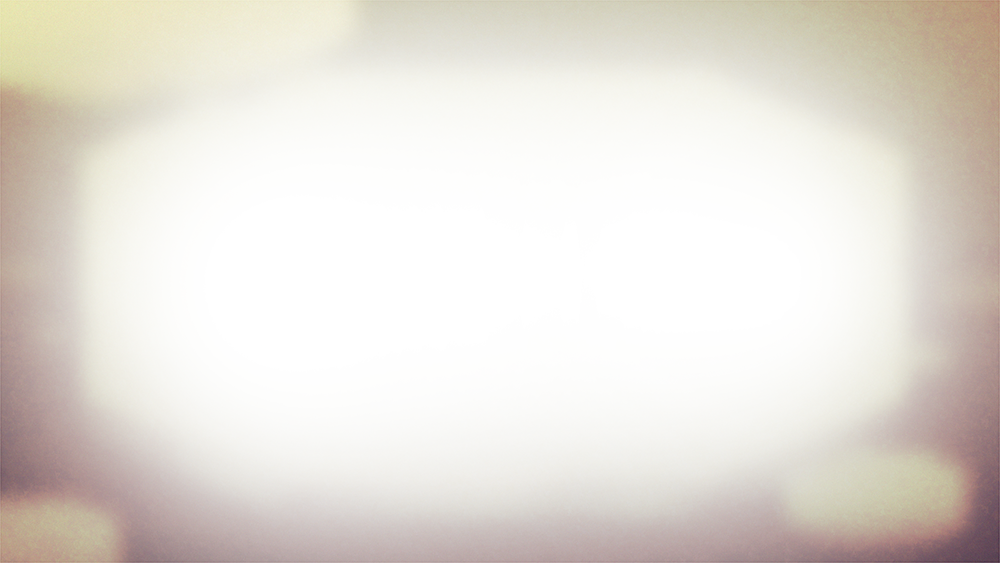
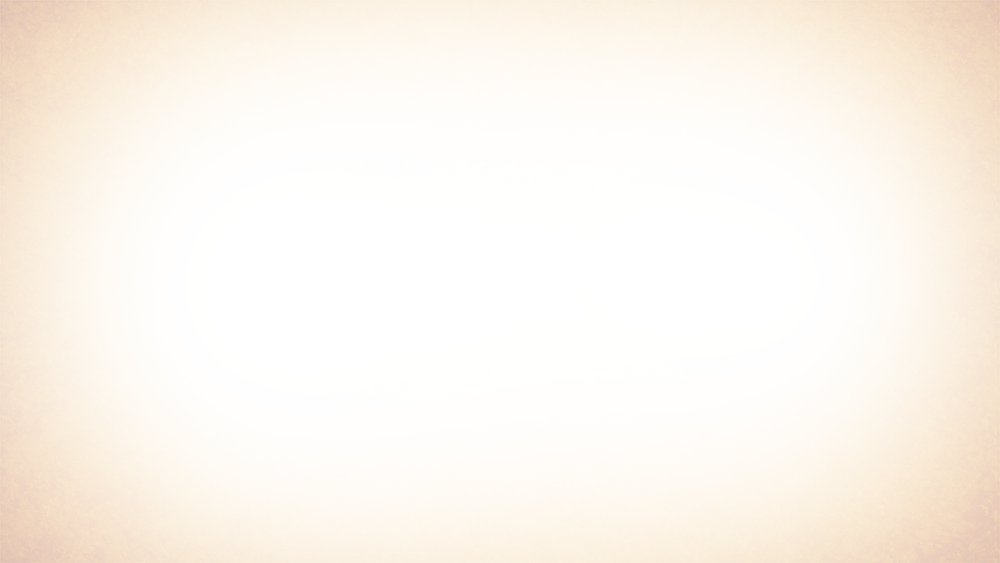
readme & overlay

diff --git a/css/style.css b/css/style.css
@@ -1,1 +1,1 @@
-html,body,div,span,applet,object,iframe,h1,h2,h3,h4,h5,h6,p,blockquote,pre,a,abbr,acronym,address,big,cite,code,del,dfn,em,img,ins,kbd,q,s,samp,small,strike,strong,sub,sup,tt,var,b,u,i,center,dl,dt,dd,ol,ul,li,fieldset,form,label,legend,table,caption,tbody,tfoot,thead,tr,th,td,article,aside,canvas,details,embed,figure,figcaption,footer,header,hgroup,menu,nav,output,ruby,section,summary,time,mark,audio,video{margin:0;padding:0;border:0;font-size:100%;font:inherit;vertical-align:baseline}article,aside,details,figcaption,figure,footer,header,hgroup,menu,nav,section{display:block}body{line-height:1}ol,ul{list-style:none}blockquote,q{quotes:none}blockquote:before,blockquote:after,q:before,q:after{content:'';content:none}table{border-collapse:collapse;border-spacing:0}body,html{font-family:Arial,Helvetica,sans-serif;background:#3c4c5a;cursor:default;width:100%;height:100%}.body-loading{position:absolute;width:200px;text-align:center;color:#FFF;font-size:30px;top:50%;left:50%;margin-top:-15px;margin-left:-100px;-webkit-transition:all .3s ease;-moz-transition:all .3s ease;-o-transition:all .3s ease;-ms-transition:all .3s ease;transition:all .3s ease}.body-loading .bar{display:block;width:100%;position:absolute;height:10px;top:40px;left:0;border:1px solid #FFF}.body-loading .bar>span{display:block;position:absolute;top:0;left:0;height:100%;background:#FFF;width:0;-webkit-transition:width .1s ease;-moz-transition:width .1s ease;-o-transition:width .1s ease;-ms-transition:width .1s ease;transition:width .1s ease}.loaded .body-loading{opacity:0;-webkit-transform:translate3d(0,20px,0);-moz-transform:translate3d(0,20px,0);-ms-transform:translate3d(0,20px,0);-o-transform:translate3d(0,20px,0);transform:translate3d(0,20px,0)}.loaded #wrapper{opacity:1}#wrapper{position:absolute;width:100%;height:100%;top:0;left:0;background-image:url(../img-css/fond.jpg);background-size:cover;background-position:center;overflow:hidden;opacity:0;-webkit-transition:opacity 1s linear;-moz-transition:opacity 1s linear;-o-transition:opacity 1s linear;-ms-transition:opacity 1s linear;transition:opacity 1s linear}.plateforme1{position:absolute;width:360px;height:201px;margin-left:-180px;margin-top:-100px;background:url(../img-css/plateforme1.png)}.plateforme1.num1{top:100%;left:0;-webkit-animation:floating ease-in-out 10s infinite;-moz-animation:floating ease-in-out 10s infinite;-ms-animation:floating ease-in-out 10s infinite;animation:floating ease-in-out 10s infinite}.plateforme1.num2{top:90%;left:90%;-webkit-animation:floating2 ease-in-out 13s infinite;-moz-animation:floating2 ease-in-out 13s infinite;-ms-animation:floating2 ease-in-out 13s infinite;animation:floating2 ease-in-out 13s infinite}.plateforme2{position:absolute;width:193px;height:116px;margin-left:-145px;margin-top:-55px;background:url(../img-css/plateforme2.png)}.plateforme2.num1{top:45%;left:5%;-webkit-animation:floating ease-in-out 8s infinite;-moz-animation:floating ease-in-out 8s infinite;-ms-animation:floating ease-in-out 8s infinite;animation:floating ease-in-out 8s infinite}.plateforme2.num2{top:60%;left:95%;-webkit-animation:floating3 ease-in-out 16s infinite;-moz-animation:floating3 ease-in-out 16s infinite;-ms-animation:floating3 ease-in-out 16s infinite;animation:floating3 ease-in-out 16s infinite}.plateforme3{position:absolute;width:137px;height:84px;margin-left:-70px;margin-top:-42px;background:url(../img-css/plateforme3.png)}.plateforme3.num1{top:55%;left:8%;-webkit-animation:floating ease-in-out 6s infinite;-moz-animation:floating ease-in-out 6s infinite;-ms-animation:floating ease-in-out 6s infinite;animation:floating ease-in-out 6s infinite}.plateforme3.num2{top:80%;left:95%;-webkit-animation:floating2 ease-in-out 11s infinite;-moz-animation:floating2 ease-in-out 11s infinite;-ms-animation:floating2 ease-in-out 11s infinite;animation:floating2 ease-in-out 11s infinite}.plateforme3.num3{top:95%;left:45%;-webkit-animation:floating2 ease-in-out 16s infinite;-moz-animation:floating2 ease-in-out 16s infinite;-ms-animation:floating2 ease-in-out 16s infinite;animation:floating2 ease-in-out 16s infinite}#game{width:1300px;height:776px;position:absolute;overflow:hidden;margin-left:-650px;margin-top:-388px;top:50%;left:50%}.screen{position:absolute;z-index:5;left:0;top:0;width:100%;height:100%;opacity:0;visibility:hidden;-webkit-transform:translate3d(0,-20px,0);-moz-transform:translate3d(0,-20px,0);-ms-transform:translate3d(0,-20px,0);-o-transform:translate3d(0,-20px,0);transform:translate3d(0,-20px,0);-webkit-transition:-webkit-transform .5s ease,opacity .5s ease,visibility 0s linear .5s;-moz-transition:-moz-transform .5s ease,opacity .5s ease,visibility 0s linear .5s;-o-transition:-o-transform .5s ease,opacity .5s ease,visibility 0s linear .5s;-ms-transition:-ms-transform .5s ease,opacity .5s ease,visibility 0s linear .5s;transition:transform .5s ease,opacity .5s ease,visibility 0s linear .5s}.screen.show{z-index:10;opacity:1;visibility:visible;-webkit-transform:translate3d(0,0,0);-moz-transform:translate3d(0,0,0);-ms-transform:translate3d(0,0,0);-o-transform:translate3d(0,0,0);transform:translate3d(0,0,0);-webkit-transition:all 1s ease 1s;-moz-transition:all 1s ease 1s;-o-transition:all 1s ease 1s;-ms-transition:all 1s ease 1s;transition:all 1s ease 1s}.btn{display:block;width:213px;height:95px;margin:0 auto;padding:0;-webkit-box-sizing:border-box;-moz-box-sizing:border-box;box-sizing:border-box;background-size:100%}.btn.play{position:absolute;top:50%;margin-top:-50px;left:50%;margin-left:-106px;background-image:url(../img-css/play_1.png)}.btn.play:hover{background-image:url(../img-css/play_2.png)}.btn.continue{background-image:url(../img-css/continue_1.png)}.btn.continue:hover{background-image:url(../img-css/continue_2.png)}.btn.menu{background-image:url(../img-css/menu_1.png)}.btn.menu:hover{background-image:url(../img-css/menu_2.png)}.logo{width:300px;height:280px;background-size:contain;background-position:center;background-repeat:no-repeat;position:absolute;top:-4px;left:50%;margin-left:-150px;background-image:url(../img-css/logo.png)}.controls-info{position:absolute;top:210px;width:300px;color:#FFF;left:200px}.controls-info.right{right:150px;left:auto}.controls-info .title{font-size:14px;text-transform:uppercase;padding-bottom:5px;clear:both;padding-top:50px}.controls-info .part{float:left;width:180px}.controls-info .part.part-shoot{width:52px}.controls-info .control{width:50px;text-align:center;font-size:12px;background:rgba(255,255,255,.3);padding-bottom:4px;margin-top:5px}.controls-info .control.left,.controls-info .control.bottom,.controls-info .control.right{float:left}.controls-info .control.left,.controls-info .control.bottom{margin-right:5px}.controls-info .control.top{margin-left:55px}.controls-info .control.shoot{margin-top:35px}.controls-info .control span{display:block;line-height:20px;background:#FFF;color:#497b80}.controls-info .libelle{clear:both;text-align:center;font-style:italic;font-size:14px;padding-top:5px}.players-num{position:absolute;top:50%;margin-top:60px;color:#FFF;font-size:16px;left:50%;width:400px;text-align:center;margin-left:-200px}.players-num label{display:inline-block;border:1px solid #FFF;padding:5px 10px;border-right:none}.players-num label:last-child{border-right:1px solid #FFF}.players-num input:checked+label{background:#FFF;color:#497b80}.players-num input{display:none}#game-over h2{color:#FFF;font-size:40px;font-weight:700;padding-top:200px;text-align:center;text-transform:uppercase;padding-bottom:40px}#scores{position:absolute;top:0;left:0}#scores>div{position:absolute;top:0;padding-left:70px;line-height:50px;color:#FFF;text-align:center;font-size:26px;font-weight:700;width:120px;-webkit-box-sizing:border-box;-moz-box-sizing:border-box;box-sizing:border-box;background-repeat:no-repeat;background-size:90px;background-position:-20px -25px;-webkit-transition:-webkit-transform .3s ease,opacity .3s linear,left .5s ease;-moz-transition:-moz-transform .3s ease,opacity .3s linear,left .5s ease;-o-transition:-o-transform .3s ease,opacity .3s linear,left .5s ease;-ms-transition:-ms-transform .3s ease,opacity .3s linear,left .5s ease;transition:transform .3s ease,opacity .3s linear,left .5s ease}#scores>div.hidden{opacity:0;-webkit-transform:translate3d(0,-10px,0);-moz-transform:translate3d(0,-10px,0);-ms-transform:translate3d(0,-10px,0);-o-transform:translate3d(0,-10px,0);transform:translate3d(0,-10px,0)}#scores>div.p1{background-image:url(../img/p1_3.png)}#scores>div.p2{background-image:url(../img/p2_3.png)}#scores>div.p3{background-image:url(../img/p3_3.png)}#scores>div.p4{background-image:url(../img/p4_3.png)}#son-btn{display:block;position:absolute;top:15px;right:20px;width:25px;height:18px;background:url(../img-css/son.png) no-repeat;background-size:25px}#son-btn.muted{background-position:0 -18px}#credits-btn{display:block;position:absolute;bottom:15px;right:20px;font-size:16px;font-weight:700;color:#FFF;text-decoration:none}#credits{position:absolute;bottom:0;right:-350px;width:350px;background:#FFF;-webkit-box-sizing:border-box;-moz-box-sizing:border-box;box-sizing:border-box;padding:30px;font-size:16px;z-index:999;-webkit-transition:right .5s ease;-moz-transition:right .5s ease;-o-transition:right .5s ease;-ms-transition:right .5s ease;transition:right .5s ease}#credits .close{display:block;position:absolute;background:#497b80;color:#FFF;right:0;top:0;padding:7px 10px}#credits.show{right:0}#credits p{margin-bottom:10px}#credits p:last-child{margin-bottom:0}#credits a{color:#497b80;text-decoration:none}.rules{position:absolute;bottom:175px;color:#FFF;font-size:16px;text-align:center;width:100%}@-webkit-keyframes floating{50%{-webkit-transform:translate3d(-30px,0,0)}100%{-webkit-transform:translate3d(0,0,0)}}@-moz-keyframes floating{50%{-moz-transform:translate3d(-30px,0,0)}100%{-moz-transform:translate3d(0,0,0)}}@-ms-keyframes floating{50%{-ms-transform:translate3d(-30px,0,0)}100%{-ms-transform:translate3d(0,0,0)}}@keyframes floating{50%{transform:translate3d(-30px,0,0)}100%{transform:translate3d(0,0,0)}}@-webkit-keyframes floating2{50%{-webkit-transform:translate3d(-60px,0,0)}100%{-webkit-transform:translate3d(0,0,0)}}@-moz-keyframes floating2{50%{-moz-transform:translate3d(-60px,0,0)}100%{-moz-transform:translate3d(0,0,0)}}@-ms-keyframes floating2{50%{-ms-transform:translate3d(-60px,0,0)}100%{-ms-transform:translate3d(0,0,0)}}@keyframes floating2{50%{transform:translate3d(-60px,0,0)}100%{transform:translate3d(0,0,0)}}@-webkit-keyframes floating3{50%{-webkit-transform:translate3d(-90px,0,0)}100%{-webkit-transform:translate3d(0,0,0)}}@-moz-keyframes floating3{50%{-moz-transform:translate3d(-90px,0,0)}100%{-moz-transform:translate3d(0,0,0)}}@-ms-keyframes floating3{50%{-ms-transform:translate3d(-90px,0,0)}100%{-ms-transform:translate3d(0,0,0)}}@keyframes floating3{50%{transform:translate3d(-90px,0,0)}100%{transform:translate3d(0,0,0)}}
+html,body,div,span,applet,object,iframe,h1,h2,h3,h4,h5,h6,p,blockquote,pre,a,abbr,acronym,address,big,cite,code,del,dfn,em,img,ins,kbd,q,s,samp,small,strike,strong,sub,sup,tt,var,b,u,i,center,dl,dt,dd,ol,ul,li,fieldset,form,label,legend,table,caption,tbody,tfoot,thead,tr,th,td,article,aside,canvas,details,embed,figure,figcaption,footer,header,hgroup,menu,nav,output,ruby,section,summary,time,mark,audio,video{margin:0;padding:0;border:0;font-size:100%;font:inherit;vertical-align:baseline}article,aside,details,figcaption,figure,footer,header,hgroup,menu,nav,section{display:block}body{line-height:1}ol,ul{list-style:none}blockquote,q{quotes:none}blockquote:before,blockquote:after,q:before,q:after{content:'';content:none}table{border-collapse:collapse;border-spacing:0}body,html{font-family:Arial,Helvetica,sans-serif;background:#3c4c5a;cursor:default;width:100%;height:100%}.body-loading{position:absolute;width:200px;text-align:center;color:#FFF;font-size:30px;top:50%;left:50%;margin-top:-15px;margin-left:-100px;-webkit-transition:all .3s ease;-moz-transition:all .3s ease;-o-transition:all .3s ease;-ms-transition:all .3s ease;transition:all .3s ease}.body-loading .bar{display:block;width:100%;position:absolute;height:10px;top:40px;left:0;border:1px solid #FFF}.body-loading .bar>span{display:block;position:absolute;top:0;left:0;height:100%;background:#FFF;width:0;-webkit-transition:width .1s ease;-moz-transition:width .1s ease;-o-transition:width .1s ease;-ms-transition:width .1s ease;transition:width .1s ease}.loaded .body-loading{opacity:0;-webkit-transform:translate3d(0,20px,0);-moz-transform:translate3d(0,20px,0);-ms-transform:translate3d(0,20px,0);-o-transform:translate3d(0,20px,0);transform:translate3d(0,20px,0)}.loaded #wrapper{opacity:1}#wrapper{position:absolute;width:100%;height:100%;top:0;left:0;background-image:url(../img-css/fond.jpg);background-size:cover;background-position:center;overflow:hidden;opacity:0;-webkit-transition:opacity 1s linear;-moz-transition:opacity 1s linear;-o-transition:opacity 1s linear;-ms-transition:opacity 1s linear;transition:opacity 1s linear}.plateforme1{position:absolute;width:360px;height:201px;margin-left:-180px;margin-top:-100px;background:url(../img-css/plateforme1.png)}.plateforme1.num1{top:100%;left:0;-webkit-animation:floating ease-in-out 10s infinite;-moz-animation:floating ease-in-out 10s infinite;-ms-animation:floating ease-in-out 10s infinite;animation:floating ease-in-out 10s infinite}.plateforme1.num2{top:90%;left:90%;-webkit-animation:floating2 ease-in-out 13s infinite;-moz-animation:floating2 ease-in-out 13s infinite;-ms-animation:floating2 ease-in-out 13s infinite;animation:floating2 ease-in-out 13s infinite}.plateforme2{position:absolute;width:193px;height:116px;margin-left:-145px;margin-top:-55px;background:url(../img-css/plateforme2.png)}.plateforme2.num1{top:45%;left:5%;-webkit-animation:floating ease-in-out 8s infinite;-moz-animation:floating ease-in-out 8s infinite;-ms-animation:floating ease-in-out 8s infinite;animation:floating ease-in-out 8s infinite}.plateforme2.num2{top:60%;left:95%;-webkit-animation:floating3 ease-in-out 16s infinite;-moz-animation:floating3 ease-in-out 16s infinite;-ms-animation:floating3 ease-in-out 16s infinite;animation:floating3 ease-in-out 16s infinite}.plateforme3{position:absolute;width:137px;height:84px;margin-left:-70px;margin-top:-42px;background:url(../img-css/plateforme3.png)}.plateforme3.num1{top:55%;left:8%;-webkit-animation:floating ease-in-out 6s infinite;-moz-animation:floating ease-in-out 6s infinite;-ms-animation:floating ease-in-out 6s infinite;animation:floating ease-in-out 6s infinite}.plateforme3.num2{top:80%;left:95%;-webkit-animation:floating2 ease-in-out 11s infinite;-moz-animation:floating2 ease-in-out 11s infinite;-ms-animation:floating2 ease-in-out 11s infinite;animation:floating2 ease-in-out 11s infinite}.plateforme3.num3{top:95%;left:45%;-webkit-animation:floating2 ease-in-out 16s infinite;-moz-animation:floating2 ease-in-out 16s infinite;-ms-animation:floating2 ease-in-out 16s infinite;animation:floating2 ease-in-out 16s infinite}#game{width:1300px;height:776px;position:absolute;overflow:hidden;margin-left:-650px;margin-top:-388px;top:50%;left:50%}.screen{position:absolute;z-index:5;left:0;top:0;width:100%;height:100%;opacity:0;visibility:hidden;-webkit-transform:translate3d(0,-20px,0);-moz-transform:translate3d(0,-20px,0);-ms-transform:translate3d(0,-20px,0);-o-transform:translate3d(0,-20px,0);transform:translate3d(0,-20px,0);-webkit-transition:-webkit-transform .5s ease,opacity .5s ease,visibility 0s linear .5s;-moz-transition:-moz-transform .5s ease,opacity .5s ease,visibility 0s linear .5s;-o-transition:-o-transform .5s ease,opacity .5s ease,visibility 0s linear .5s;-ms-transition:-ms-transform .5s ease,opacity .5s ease,visibility 0s linear .5s;transition:transform .5s ease,opacity .5s ease,visibility 0s linear .5s}.screen.show{z-index:10;opacity:1;visibility:visible;-webkit-transform:translate3d(0,0,0);-moz-transform:translate3d(0,0,0);-ms-transform:translate3d(0,0,0);-o-transform:translate3d(0,0,0);transform:translate3d(0,0,0);-webkit-transition:all 1s ease 1s;-moz-transition:all 1s ease 1s;-o-transition:all 1s ease 1s;-ms-transition:all 1s ease 1s;transition:all 1s ease 1s}.btn{display:block;width:213px;height:95px;margin:0 auto;padding:0;-webkit-box-sizing:border-box;-moz-box-sizing:border-box;box-sizing:border-box;background-size:100%}.btn.play{position:absolute;top:50%;margin-top:-50px;left:50%;margin-left:-106px;background-image:url(../img-css/play_1.png)}.btn.play:hover{background-image:url(../img-css/play_2.png)}.btn.continue{background-image:url(../img-css/continue_1.png)}.btn.continue:hover{background-image:url(../img-css/continue_2.png)}.btn.menu{background-image:url(../img-css/menu_1.png)}.btn.menu:hover{background-image:url(../img-css/menu_2.png)}.logo{width:300px;height:280px;background-size:contain;background-position:center;background-repeat:no-repeat;position:absolute;top:-4px;left:50%;margin-left:-150px;background-image:url(../img-css/logo.png)}.controls-info{position:absolute;top:210px;width:300px;color:#FFF;left:200px}.controls-info.right{right:150px;left:auto}.controls-info .title{font-size:14px;text-transform:uppercase;padding-bottom:5px;clear:both;padding-top:50px}.controls-info .part{float:left;width:180px}.controls-info .part.part-shoot{width:52px}.controls-info .control{width:50px;text-align:center;font-size:12px;background:rgba(255,255,255,.3);padding-bottom:4px;margin-top:5px}.controls-info .control.left,.controls-info .control.bottom,.controls-info .control.right{float:left}.controls-info .control.left,.controls-info .control.bottom{margin-right:5px}.controls-info .control.top{margin-left:55px}.controls-info .control.shoot{margin-top:35px}.controls-info .control span{display:block;line-height:20px;background:#FFF;color:#497b80}.controls-info .libelle{clear:both;text-align:center;font-style:italic;font-size:14px;padding-top:5px}.players-num{position:absolute;top:50%;margin-top:60px;color:#FFF;font-size:16px;left:50%;width:400px;text-align:center;margin-left:-200px}.players-num label{display:inline-block;border:1px solid #FFF;padding:5px 10px;border-right:none}.players-num label:last-child{border-right:1px solid #FFF}.players-num input:checked+label{background:#FFF;color:#497b80}.players-num input{display:none}#game-over h2{color:#FFF;font-size:40px;font-weight:700;padding-top:200px;text-align:center;text-transform:uppercase;padding-bottom:40px}#scores{position:absolute;top:0;left:0}#scores>div{position:absolute;top:0;padding-left:70px;line-height:50px;color:#FFF;text-align:center;font-size:26px;font-weight:700;width:120px;-webkit-box-sizing:border-box;-moz-box-sizing:border-box;box-sizing:border-box;background-repeat:no-repeat;background-size:90px;background-position:-20px -25px;-webkit-transition:-webkit-transform .3s ease,opacity .3s linear,left .5s ease;-moz-transition:-moz-transform .3s ease,opacity .3s linear,left .5s ease;-o-transition:-o-transform .3s ease,opacity .3s linear,left .5s ease;-ms-transition:-ms-transform .3s ease,opacity .3s linear,left .5s ease;transition:transform .3s ease,opacity .3s linear,left .5s ease}#scores>div.hidden{opacity:0;-webkit-transform:translate3d(0,-10px,0);-moz-transform:translate3d(0,-10px,0);-ms-transform:translate3d(0,-10px,0);-o-transform:translate3d(0,-10px,0);transform:translate3d(0,-10px,0)}#scores>div.p1{background-image:url(../img/p1_3.png)}#scores>div.p2{background-image:url(../img/p2_3.png)}#scores>div.p3{background-image:url(../img/p3_3.png)}#scores>div.p4{background-image:url(../img/p4_3.png)}#son-btn{display:block;position:absolute;top:15px;right:20px;width:25px;height:18px;background:url(../img-css/son.png) no-repeat;background-size:25px}#son-btn.muted{background-position:0 -18px}#credits-btn{display:block;position:absolute;bottom:15px;right:20px;font-size:16px;font-weight:700;color:#FFF;text-decoration:none}#credits{position:absolute;bottom:0;right:-350px;width:350px;background:#FFF;-webkit-box-sizing:border-box;-moz-box-sizing:border-box;box-sizing:border-box;padding:30px;font-size:16px;z-index:999;-webkit-transition:right .5s ease;-moz-transition:right .5s ease;-o-transition:right .5s ease;-ms-transition:right .5s ease;transition:right .5s ease}#credits .close{display:block;position:absolute;background:#497b80;color:#FFF;right:0;top:0;padding:7px 10px}#credits.show{right:0}#credits p{margin-bottom:10px}#credits p:last-child{margin-bottom:0}#credits a{color:#497b80;text-decoration:none}.rules{position:absolute;bottom:175px;color:#FFF;font-size:16px;text-align:center;width:100%}@-webkit-keyframes floating{50%{-webkit-transform:translate3d(-30px,0,0)}100%{-webkit-transform:translate3d(0,0,0)}}@-moz-keyframes floating{50%{-moz-transform:translate3d(-30px,0,0)}100%{-moz-transform:translate3d(0,0,0)}}@-ms-keyframes floating{50%{-ms-transform:translate3d(-30px,0,0)}100%{-ms-transform:translate3d(0,0,0)}}@keyframes floating{50%{transform:translate3d(-30px,0,0)}100%{transform:translate3d(0,0,0)}}@-webkit-keyframes floating2{50%{-webkit-transform:translate3d(-60px,0,0)}100%{-webkit-transform:translate3d(0,0,0)}}@-moz-keyframes floating2{50%{-moz-transform:translate3d(-60px,0,0)}100%{-moz-transform:translate3d(0,0,0)}}@-ms-keyframes floating2{50%{-ms-transform:translate3d(-60px,0,0)}100%{-ms-transform:translate3d(0,0,0)}}@keyframes floating2{50%{transform:translate3d(-60px,0,0)}100%{transform:translate3d(0,0,0)}}@-webkit-keyframes floating3{50%{-webkit-transform:translate3d(-90px,0,0)}100%{-webkit-transform:translate3d(0,0,0)}}@-moz-keyframes floating3{50%{-moz-transform:translate3d(-90px,0,0)}100%{-moz-transform:translate3d(0,0,0)}}@-ms-keyframes floating3{50%{-ms-transform:translate3d(-90px,0,0)}100%{-ms-transform:translate3d(0,0,0)}}@keyframes floating3{50%{transform:translate3d(-90px,0,0)}100%{transform:translate3d(0,0,0)}}.overlay{position:absolute;top:0;left:0;width:100%;height:100%;background-image:url(../img-css/overlay.png);background-size:cover;background-position:center}

diff --git a/css/style.less b/css/style.less
@@ -492,3 +492,14 @@ body, html {
 @-moz-keyframes floating3 { 50% { -moz-transform: translate3d(-90px, 0, 0); } 100% { -moz-transform: translate3d(0, 0, 0); } }
 @-ms-keyframes floating3 { 50% { -ms-transform: translate3d(-90px, 0, 0); } 100% { -ms-transform: translate3d(0, 0, 0); } }
 @keyframes floating3 { 50% { transform: translate3d(-90px, 0, 0); } 100% { transform: translate3d(0, 0, 0); } }
+
+.overlay {
+  position: absolute;
+  top: 0;
+  left: 0;
+  width: 100%;
+  height: 100%;
+  background-image: url(../img-css/overlay.png);
+  background-size: cover;
+  background-position: center;
+}

diff --git a/js/main.js b/js/main.js
@@ -75,7 +75,7 @@ $(function() {
     'img/bullet.png',
     'img/enemy-big.png', 'img/enemy-big-shadow.png', 'img/enemy-small.png', 'img/enemy-small-shadow.png',
     'img-css/continue_1.png', 'img-css/continue_2.png', 'img-css/fond.jpg', 'img-css/logo.png', 'img-css/menu_1.png', 'img-css/menu_2.png', 'img-css/plateforme1.png', 'img-css/plateforme2.png',  'img-css/plateforme3.png',  'img-css/plateforme4.png',  'img-css/play_1.png',  'img-css/play_2.png',
-    //'img-css/overlay.png'
+    'img-css/overlay.png'
   ];
   var imgLoaded = 0;
   

diff --git a/index.html b/index.html
@@ -28,6 +28,8 @@
         <div class="plateforme1 num1"></div>
         <div class="plateforme1 num2"></div>
         
+        <div class="overlay"></div>
+        
         <a id="son-btn" href="#"></a>
         
         <a id="credits-btn" href="#">Credits</a>

diff --git a/README.md b/README.md
@@ -1,4 +1,6 @@
-candyjam
+LD 31 game : Windwoo
 ========
 
-Call of Candy 2015 : Sugar Warframe
+2-4 players game, all on one keyboard
+defy your friends on this game, be the only survivor to win
+evil rocks inside
